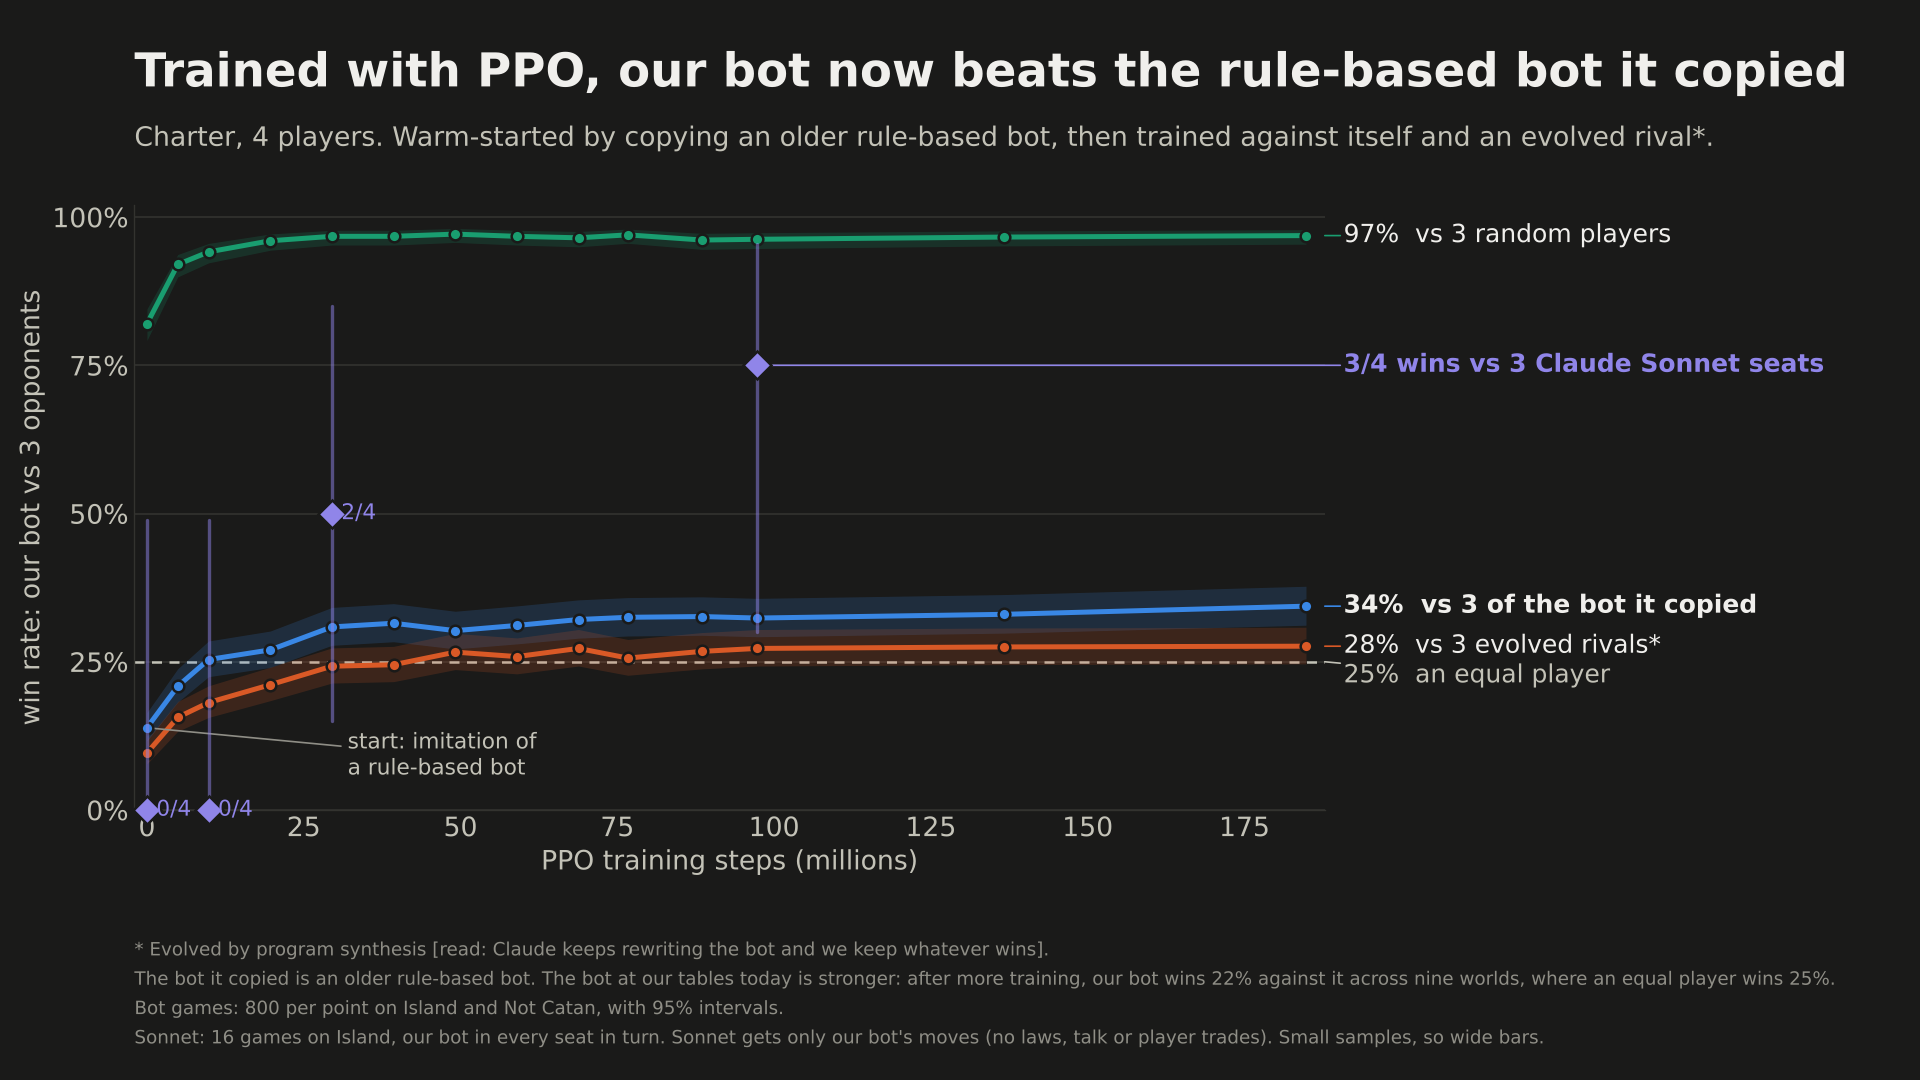
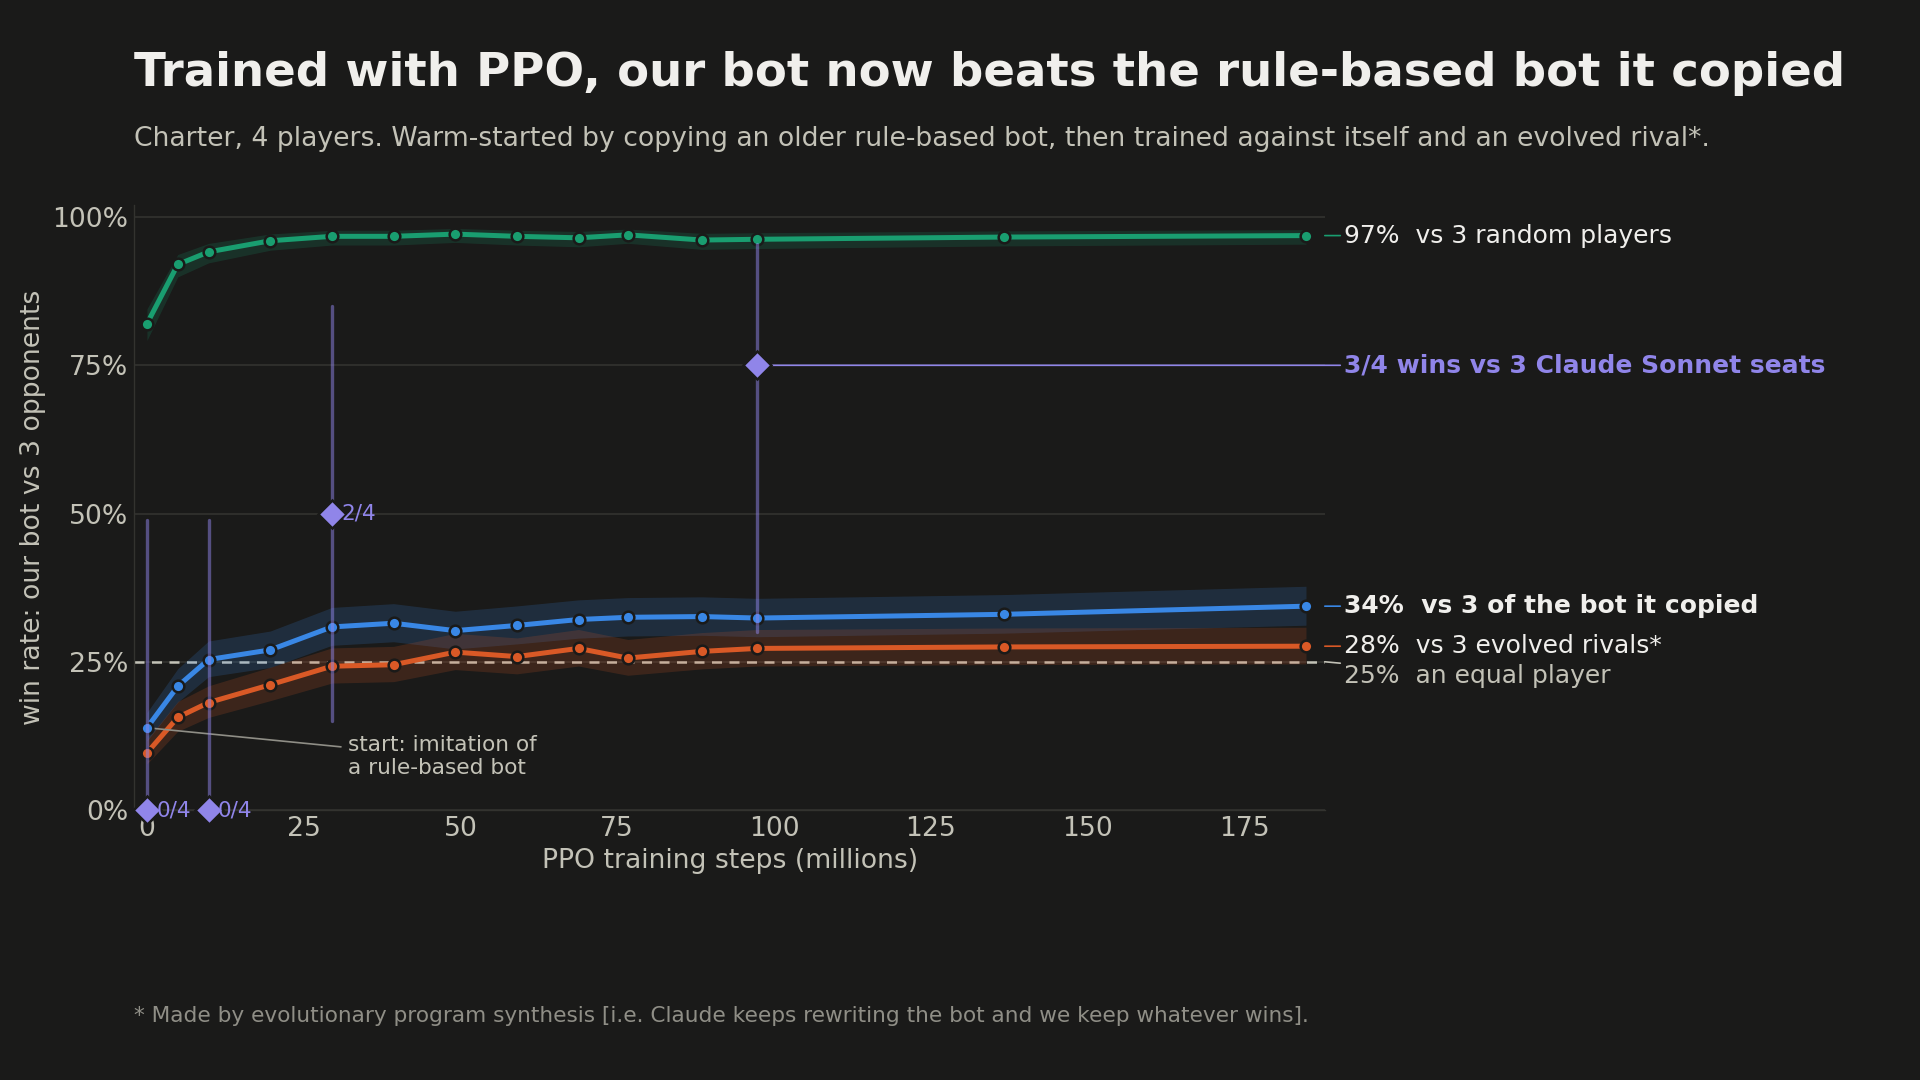
Hero plot: keep only the evolved-rival footnote

diff --git a/rl/hero/plot.py b/rl/hero/plot.py
@@ -176,14 +176,8 @@ def draw(theme_name, rows, sonnet, out_paths):
         fig.text(0.07, 0.92, f"Trained with PPO, our bot {verdict}", fontsize=28, fontweight="bold", color=t["ink"])
     fig.text(0.07, 0.865, "Charter, 4 players. Warm-started by copying an older rule-based bot, then trained against "
              "itself and an evolved rival*.", fontsize=16, color=t["ink2"])
-    n_s = sum(r["games"] for r in pts)
-    foot = ("* Evolved by program synthesis [read: Claude keeps rewriting the bot and we keep whatever wins].\n"
-            "The bot it copied is an older rule-based bot. The bot at our tables today is stronger: after more "
-            "training, our bot wins 22% against it across nine worlds, where an equal player wins 25%.\n"
-            "Bot games: 800 per point on Island and Not Catan, with 95% intervals.\n"
-            f"Sonnet: {n_s} games on Island, our bot in every seat in turn. Sonnet gets only our bot's moves "
-            "(no laws, talk or player trades). Small samples, so wide bars.")
-    fig.text(0.07, 0.025, foot, fontsize=11, color=t["muted"], va="bottom", linespacing=1.6)
+    foot = "* Made by evolutionary program synthesis [i.e. Claude keeps rewriting the bot and we keep whatever wins]."
+    fig.text(0.07, 0.05, foot, fontsize=13, color=t["muted"], va="bottom", linespacing=1.6)
     for path in out_paths:
         fig.savefig(path, facecolor=t["bg"], dpi=120)
     plt.close(fig)
